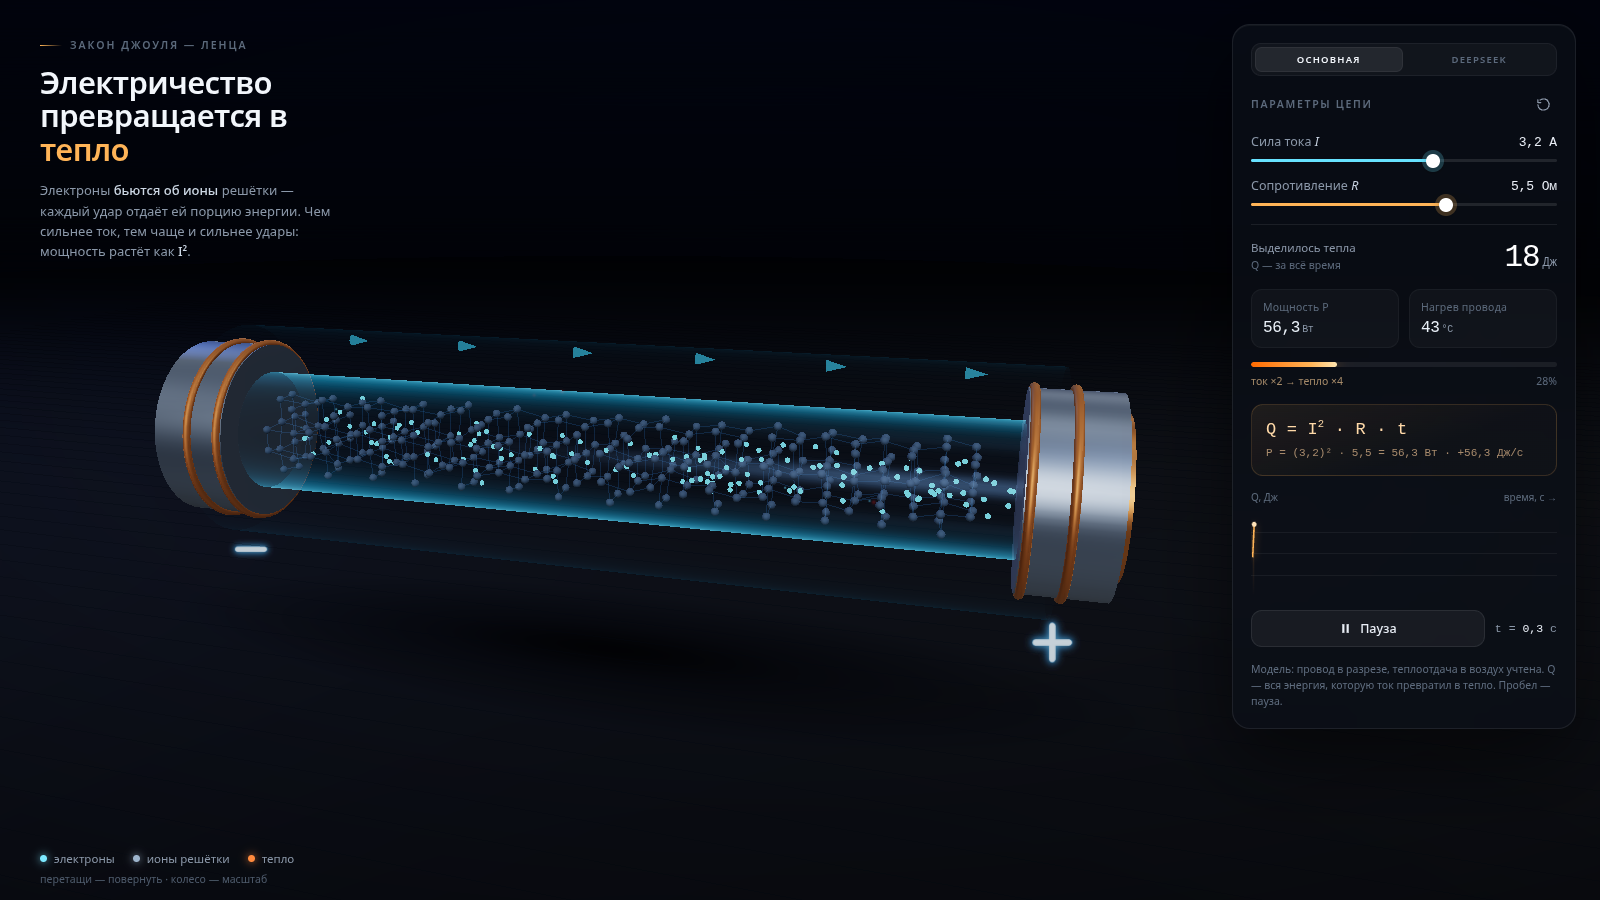
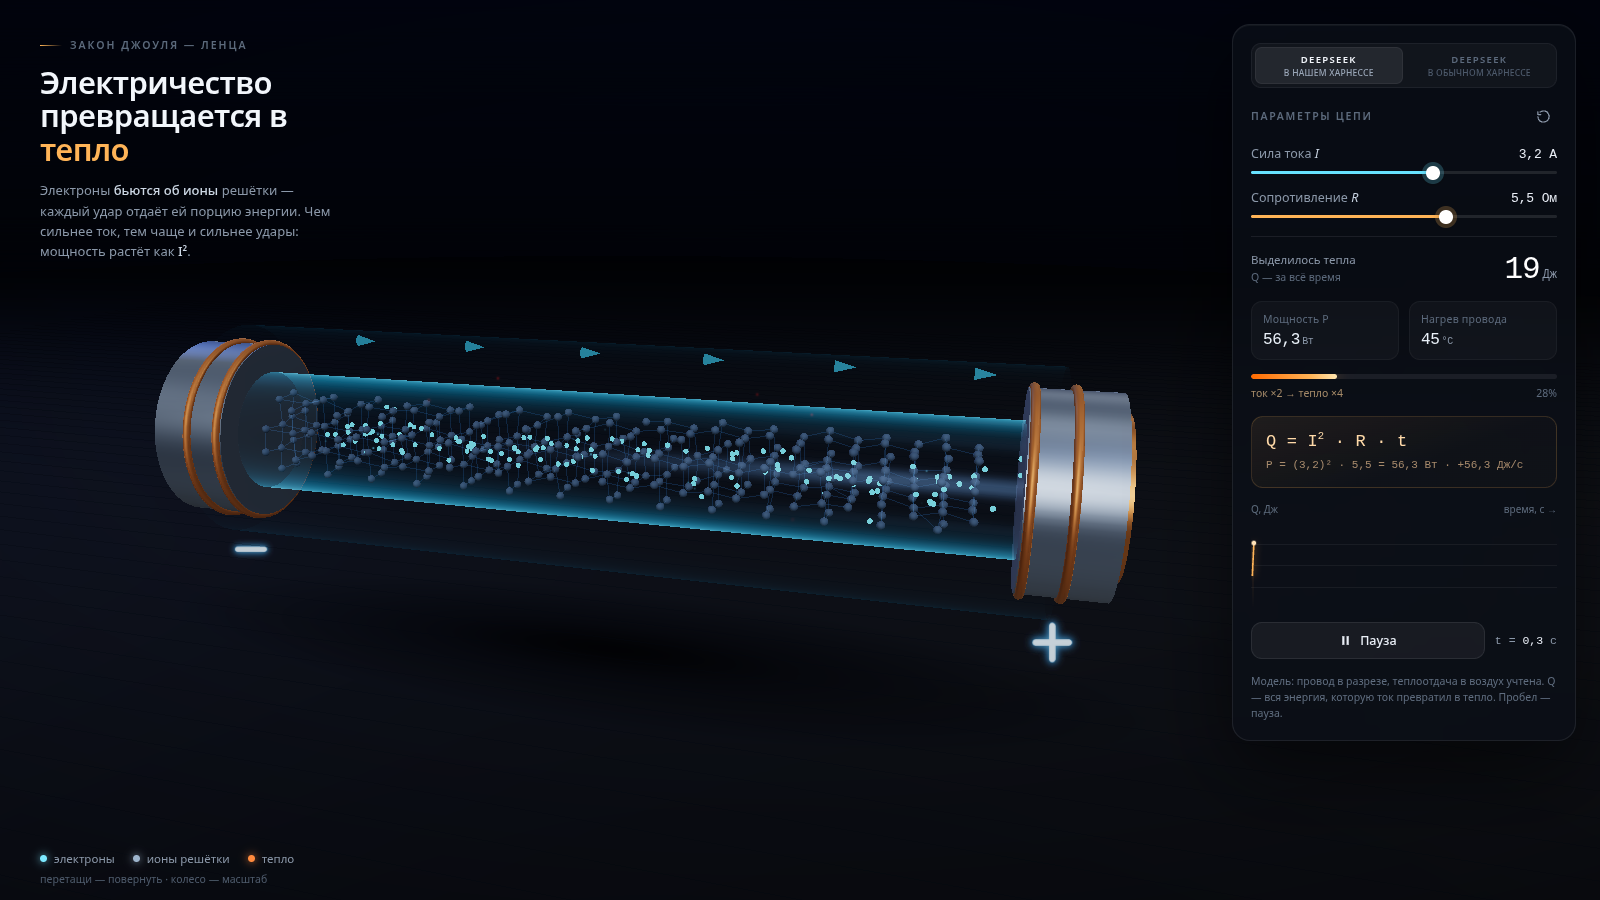
Rename version labels to describe the harness variants

diff --git a/index.html b/index.html
@@ -69,15 +69,26 @@
     background:rgba(255,255,255,.035);border:1px solid rgba(255,255,255,.05);
   }
   .versions .ver{
-    flex:1;text-align:center;text-decoration:none;font-size:9.5px;font-weight:600;
-    letter-spacing:.13em;text-transform:uppercase;color:var(--faint);padding:6px 4px;
-    border-radius:7px;transition:background .15s,color .15s;
+    flex:1;display:flex;flex-direction:column;align-items:center;justify-content:center;
+    gap:1px;text-align:center;text-decoration:none;padding:6px 4px;border-radius:7px;
+    transition:background .15s;
   }
-  .versions .ver:hover{color:var(--ink);background:rgba(255,255,255,.05)}
+  .versions .ver span{
+    font-size:9.5px;font-weight:600;letter-spacing:.14em;text-transform:uppercase;
+    color:var(--faint);transition:color .15s;
+  }
+  .versions .ver em{
+    font-style:normal;font-size:8.5px;font-weight:500;letter-spacing:.03em;
+    text-transform:uppercase;color:#4d5a6b;white-space:nowrap;transition:color .15s;
+  }
+  .versions .ver:hover{background:rgba(255,255,255,.05)}
+  .versions .ver:hover span{color:var(--ink)}
   .versions .ver.is-on{
-    color:#f2f6fb;background:rgba(255,255,255,.08);
+    background:rgba(255,255,255,.08);
     box-shadow:inset 0 0 0 1px rgba(255,255,255,.05);
   }
+  .versions .ver.is-on span{color:#f2f6fb}
+  .versions .ver.is-on em{color:#9aa7b8}
 
   .panel-head{
     display:flex;align-items:center;justify-content:space-between;margin-bottom:2px;
@@ -255,8 +266,14 @@
 
 <aside class="panel" id="panel">
   <nav class="versions" aria-label="Версия визуализации">
-    <a class="ver is-on" href="./index.html" aria-current="page">основная</a>
-    <a class="ver" href="./deepseek.html">deepseek</a>
+    <a class="ver is-on" href="./index.html" aria-current="page">
+      <span>DeepSeek</span>
+      <em>в нашем харнессе</em>
+    </a>
+    <a class="ver" href="./deepseek.html">
+      <span>DeepSeek</span>
+      <em>в обычном харнессе</em>
+    </a>
   </nav>
 
   <div class="panel-head">

diff --git a/deepseek.html b/deepseek.html
@@ -25,19 +25,26 @@
        background:linear-gradient(to right,#3366ff,#00cccc,#ffff00,#ff8800,#ff0000)}
   .lb{display:flex;justify-content:space-between;color:#889}
   .vers{display:flex;gap:4px;margin-bottom:10px}
-  .vers a{flex:1;text-align:center;padding:5px 6px;font-size:10px;letter-spacing:.08em;
+  .vers a{flex:1;display:flex;flex-direction:column;align-items:center;justify-content:center;
+          gap:1px;text-align:center;padding:5px 6px;font-size:10px;letter-spacing:.08em;
           color:#889;text-decoration:none;border:1px solid #334;border-radius:4px;
-          background:#0a0a18;text-transform:uppercase}
-  .vers a.on{color:#ffcc44;border-color:#665522;background:#1a1a2e}
-  .vers a:hover{background:#224;color:#fff}
+          background:#0a0a18}
+  .vers a span{font-size:9px;letter-spacing:.09em;text-transform:uppercase;color:#889}
+  .vers a em{font-style:normal;font-size:8.5px;letter-spacing:.02em;text-transform:uppercase;
+             color:#556;white-space:nowrap}
+  .vers a.on{border-color:#665522;background:#1a1a2e}
+  .vers a.on span{color:#ffcc44}
+  .vers a.on em{color:#a98a4d}
+  .vers a:hover{background:#224}
+  .vers a:hover span{color:#fff}
 </style>
 </head>
 <body>
 
 <div id="ui">
   <div class="vers">
-    <a href="./index.html">основная</a>
-    <a href="./deepseek.html" class="on">deepseek</a>
+    <a href="./index.html"><span>DeepSeek</span><em>в нашем харнессе</em></a>
+    <a href="./deepseek.html" class="on"><span>DeepSeek</span><em>в обычном харнессе</em></a>
   </div>
   <h3>⚡ Закон Джоуля-Ленца</h3>
 

diff --git a/README.md b/README.md
@@ -9,15 +9,16 @@
 
 ## Версии
 
-- **Основная** (`index.html`) — открывается по умолчанию. Провод в разрезе,
+- **DeepSeek в нашем харнессе** (`index.html`) — открывается по умолчанию. Провод в разрезе,
   электроны и решётка, нагрев с теплоотдачей, живая формула и график `Q(t)`.
-- **DeepSeek** (`deepseek.html`) — вариант, сделанный в DeepSeek-харнессе:
+- **DeepSeek в обычном харнессе** (`deepseek.html`) — вариант, сделанный
+  в обычном DeepSeek-харнессе:
   один HTML-файл, материалы (медь, нихром, вольфрам), частота тока и скин-эффект,
   токовые линии и температурное поле. Three.js подгружается с unpkg, поэтому
   этой версии нужен интернет.
 
-Переключатель версий — в панели основной версии и в верхней части панели
-DeepSeek-версии.
+Переключатель версий — в панели версии «в нашем харнессе» и в верхней части
+панели версии «в обычном харнессе».
 
 ![deepseek](shots/06-deepseek.png)
 
